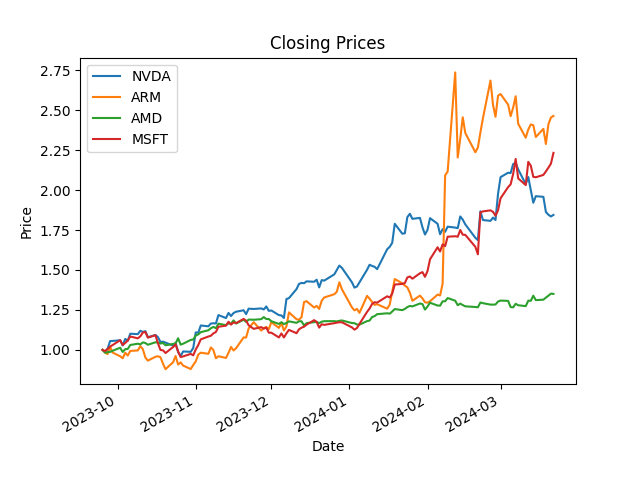
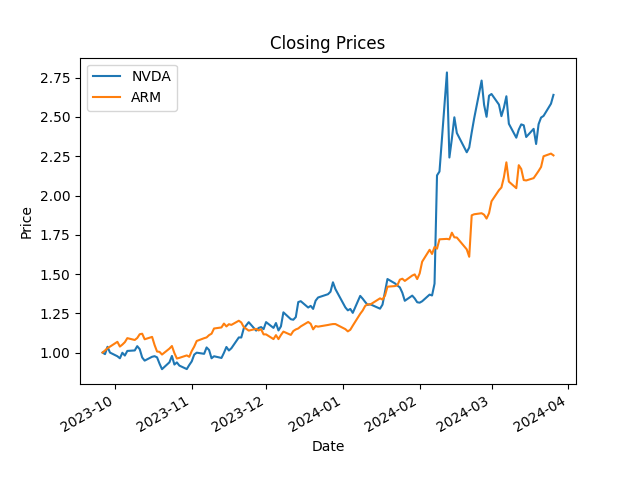
Splitting into main and utils and plot legend

diff --git a/main.py b/main.py
@@ -1,40 +1,9 @@
 import yfinance as yf
 import pandas as pd
-import matplotlib.pyplot as plt
-
-
-def plotShow(data_item, title_plt,xlable_plt,ylabel_plt,size = (10, 5)):
-        plt.figure(figsize=size)
-        data_item.plot()
-        plt.title(title_plt)
-        plt.xlabel(xlable_plt)
-        plt.ylabel(ylabel_plt)
-        plt.legend(tickers)
-        plt.savefig(f"{title_plt}.png")
-
-def calculate_rsi(data, window=14):
-   # Calculate price changes
-    delta = data.diff()
-    
-    # Separate positive and negative price changes
-    gain = (delta.where(delta > 0, 0)).fillna(0)
-    loss = (-delta.where(delta < 0, 0)).fillna(0)
-    
-    # Calculate average gain and average loss
-    avg_gain = gain.rolling(window=window, min_periods=1).mean()
-    avg_loss = loss.rolling(window=window, min_periods=1).mean()
-    
-    # Calculate relative strength (rs)
-    rs = avg_gain / avg_loss
-    
-    # Calculate RSI
-    rsi = 100 - (100 / (1 + rs))
-    
-    return rsi
- 
+import utils
 
 # A ticker is one stock
-tickers = ['NVDA','ARM','AMD','MSFT']
+tickers = ['NVDA','ARM']
 
 #Data manipulation
 
@@ -44,11 +13,12 @@ df_volumes = yf.download(tickers, period = "6mo")['Volume']
 scalled_close_prices = df_close_prices / df_close_prices.iloc[0,:]
 scalled_volumes = df_volumes / df_volumes.iloc[0,:]
 
-#calculations
+#calculations and cleaning NAN values due to missing data
+
 # Calculating the daily change in precentages
 df_daily_returns = (df_close_prices.pct_change()* 100).fillna(0)
-
-df_rsi_result = calculate_rsi(df_close_prices).fillna(0)
+#calculating RSI measure which used for over/under bought 
+df_rsi_result = utils.calculate_rsi(df_close_prices).fillna(0)
 
 
 
@@ -56,13 +26,13 @@ df_rsi_result = calculate_rsi(df_close_prices).fillna(0)
 
 
 # Plotting close prices for all stocks 
-plotShow(scalled_close_prices, "Closing Prices", "Date", "Price")
+utils.plotShow(scalled_close_prices, "Closing Prices", "Date", "Price")
 
 #Plotting volume for each stock
-plotShow(scalled_volumes, "Volumes Traded", "Date", "Volume")
+utils.plotShow(scalled_volumes, "Volumes Traded", "Date", "Volume")
 
 # Plotting daily change
-plotShow(df_daily_returns, "Daily Returns", "Date", "Change in %")
+utils.plotShow(df_daily_returns, "Daily Returns", "Date", "Change in %")
 
 #Plotting RSI measure for each stock
-plotShow(df_rsi_result, "RSI measure", "Date", "RSI")
+utils.plotShow(df_rsi_result, "RSI measure", "Date", "RSI")

diff --git a/utils.py b/utils.py
@@ -1,0 +1,32 @@
+import matplotlib.pyplot as plt
+
+tickers = ['NVDA','ARM']
+
+def plotShow(data_item, title_plt,xlable_plt,ylabel_plt,size = (10, 5)):
+        plt.figure(figsize=size)
+        data_item.plot()
+        plt.title(title_plt)
+        plt.xlabel(xlable_plt)
+        plt.ylabel(ylabel_plt)
+        plt.legend(list(data_item.columns))
+        plt.savefig(f"{title_plt}.png")
+
+def calculate_rsi(data, window=14):
+   # Calculate price changes
+    delta = data.diff()
+    
+    # Separate positive and negative price changes
+    gain = (delta.where(delta > 0, 0)).fillna(0)
+    loss = (-delta.where(delta < 0, 0)).fillna(0)
+    
+    # Calculate average gain and average loss
+    avg_gain = gain.rolling(window=window, min_periods=1).mean()
+    avg_loss = loss.rolling(window=window, min_periods=1).mean()
+    
+    # Calculate relative strength (rs)
+    rs = avg_gain / avg_loss
+    
+    # Calculate RSI
+    rsi = 100 - (100 / (1 + rs))
+    
+    return rsi
